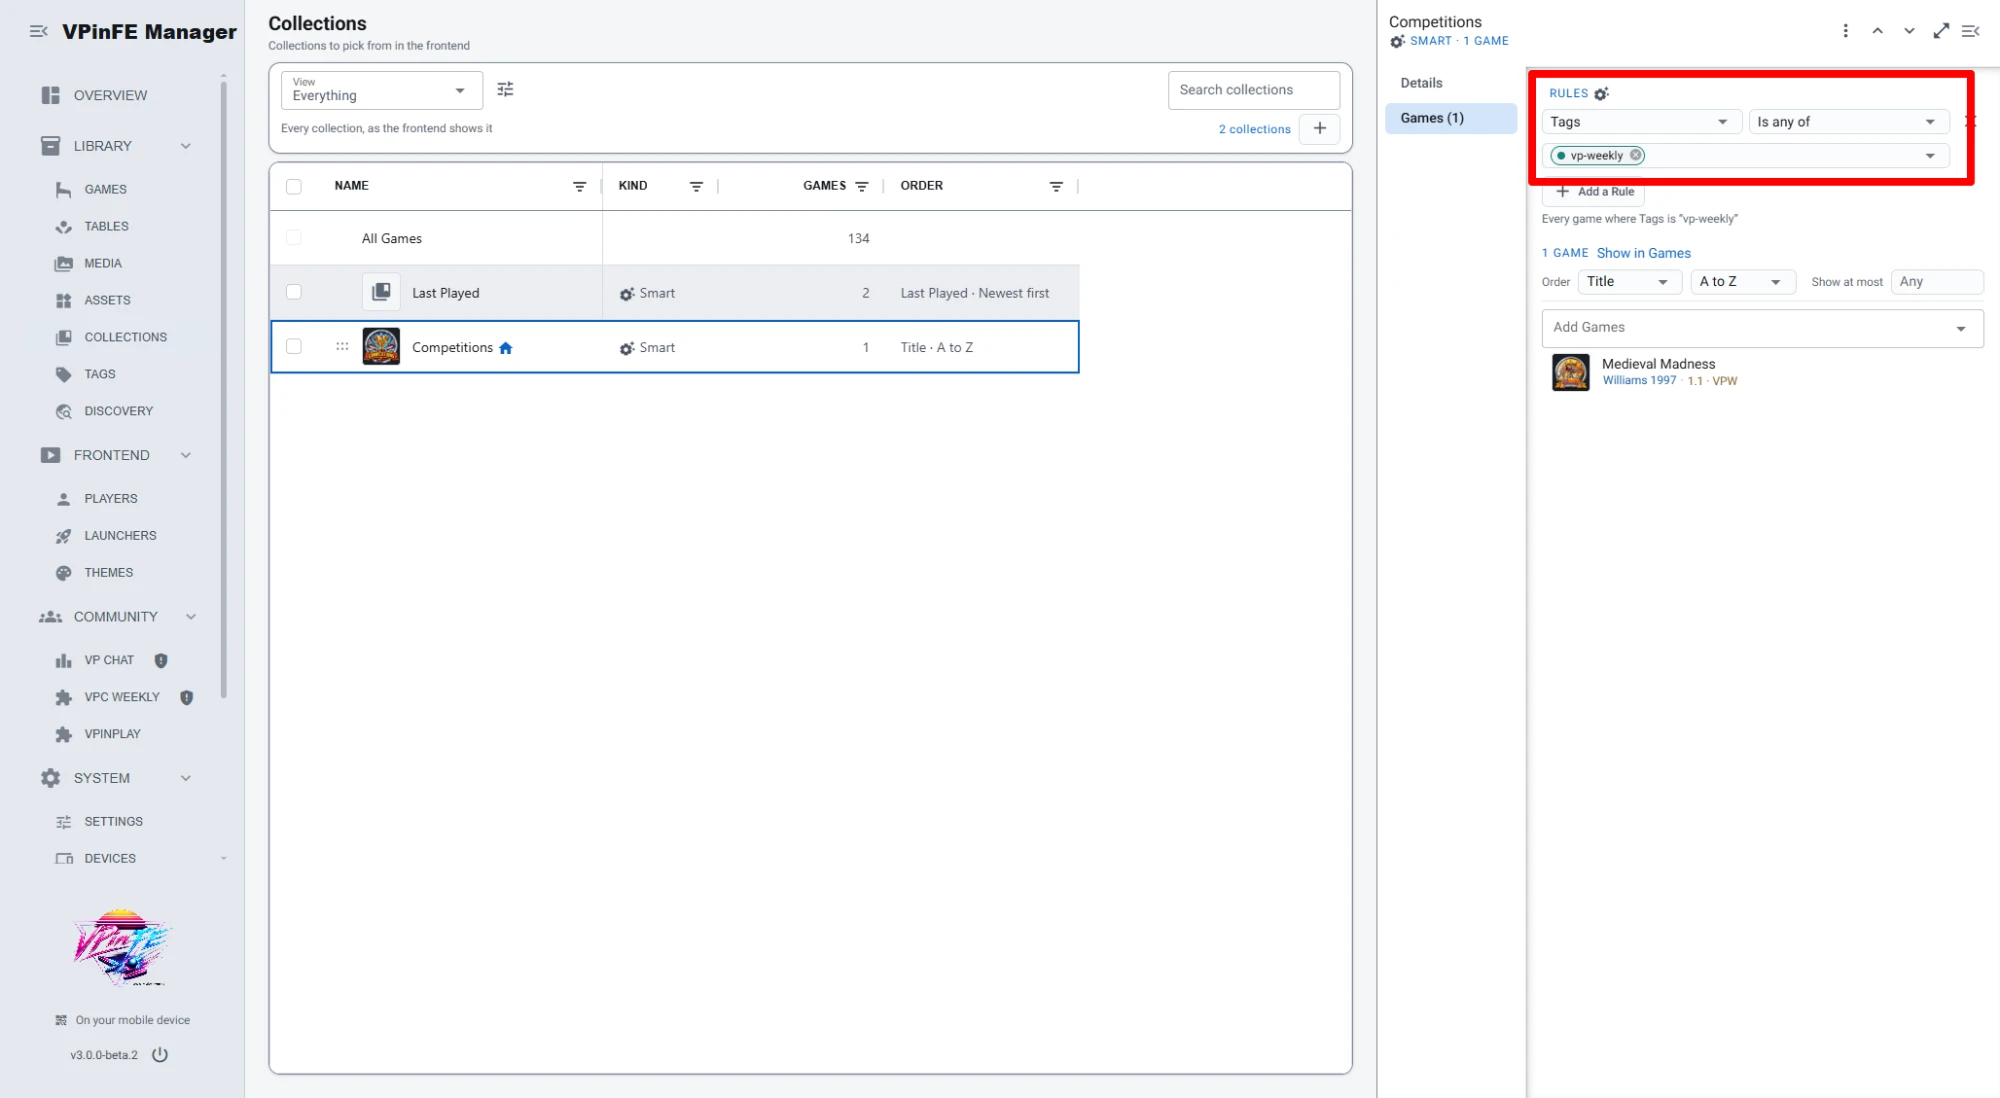
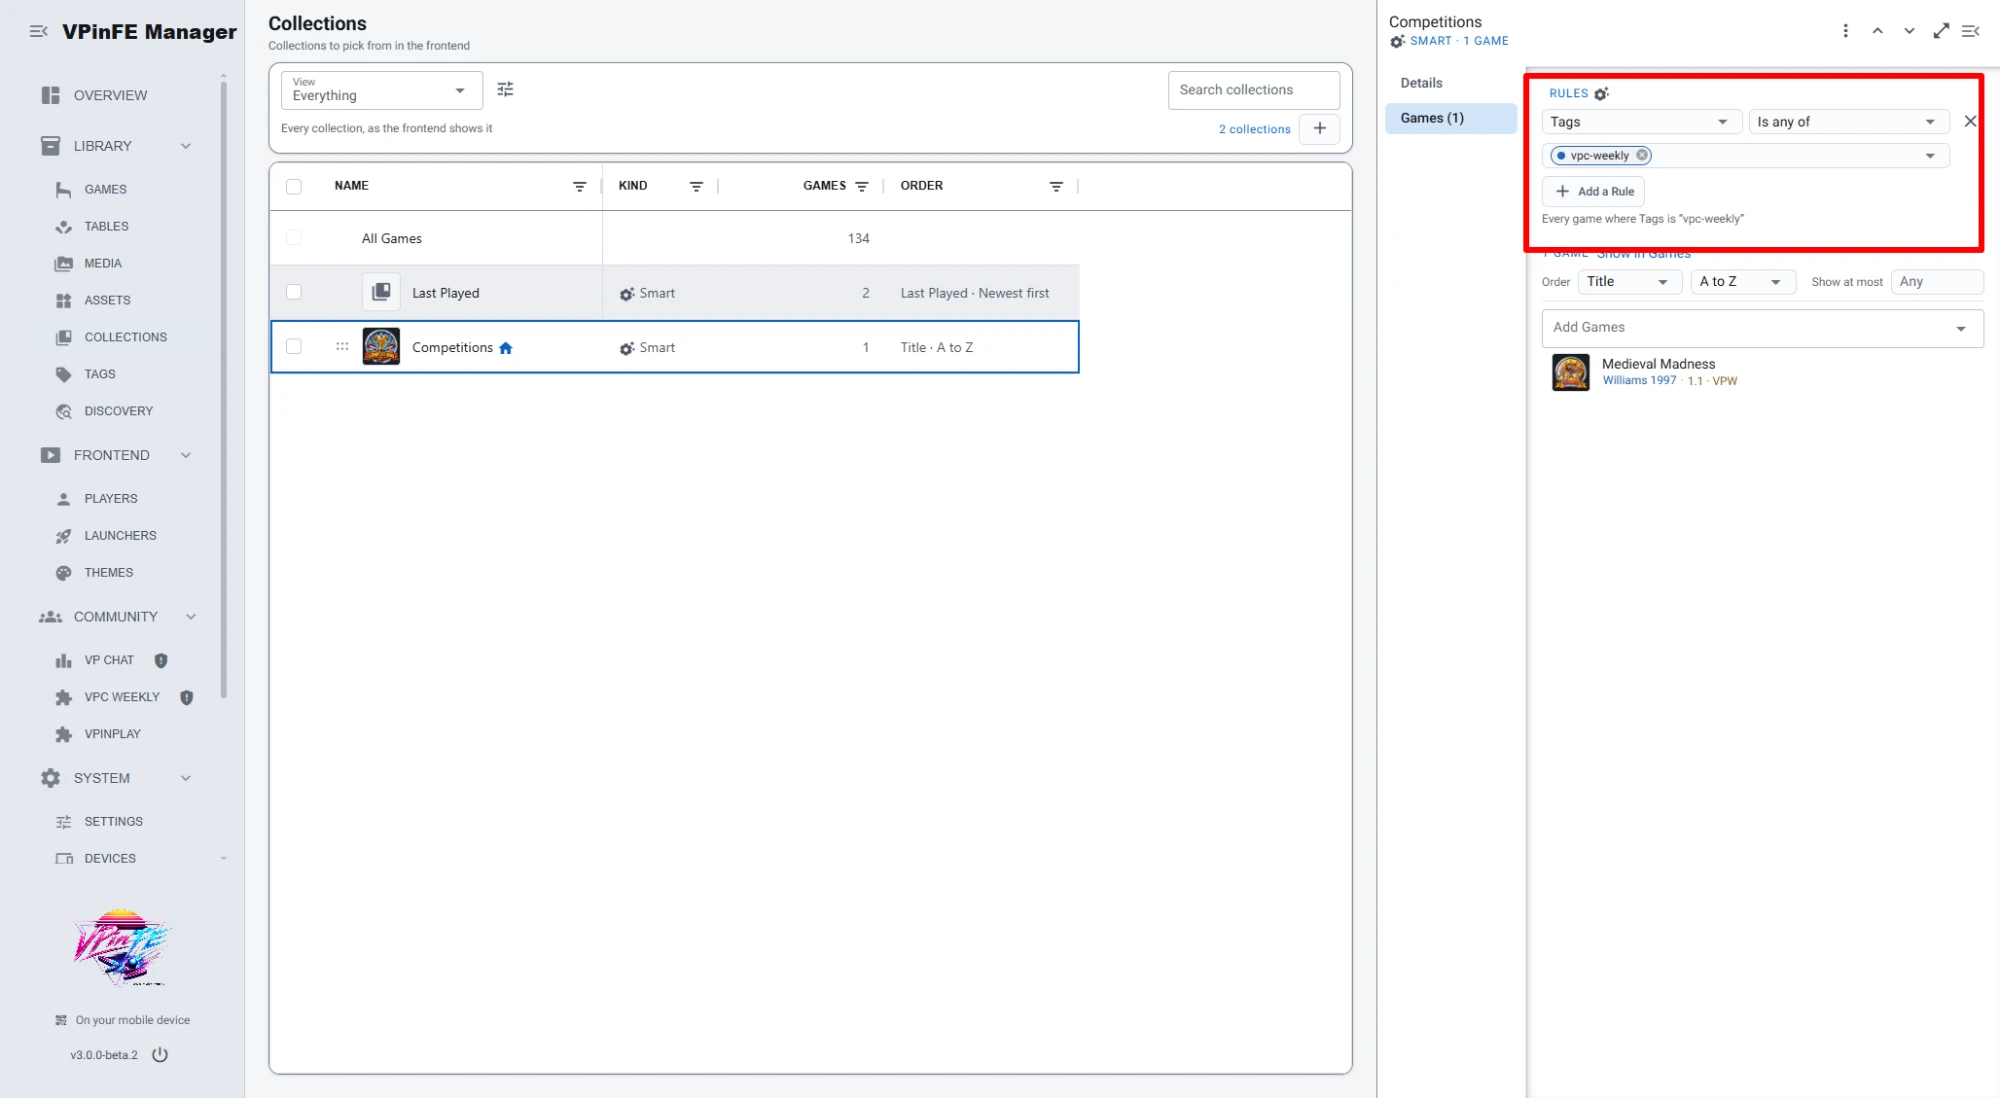
Rename the weekly tag from vp-weekly to vpc-weekly
The weekly table is now tagged vpc-weekly. Update the README and its
screenshots to match, and note that collections built on the old tag
need their rule changed.

Changed region(s): [[0.744, 0.0619, 0.992, 0.2477]]

diff --git a/community.py b/community.py
@@ -1,5 +1,5 @@
 """What the person and a theme see: the VP Chat list, the small VPC Weekly list that carries
-the ``vp-weekly`` tag, and the ``vpc`` and ``vpc_weekly`` entries.
+the ``vpc-weekly`` tag, and the ``vpc`` and ``vpc_weekly`` entries.
 
 VPinFE tags the game of every row of a tagged list, so the tag lives on its own list that
 holds only this week's game. VP Chat holds every game with scores.
@@ -16,7 +16,7 @@ from . import boards, client, settings
 
 logger = logging.getLogger("vpinfe.ext.vpc_vpinfe")
 
-TAG = "vp-weekly"
+TAG = "vpc-weekly"
 WEEKLY = "weekly"
 CHAT = "vp_chat"
 WEEKLY_ENTRY = "vpc_weekly"

diff --git a/__init__.py b/__init__.py
@@ -2,7 +2,7 @@
 
 - **VP Chat** (Community) lists the weekly table and every table in your library whose scores
   have been asked of VPC, with your own usernames flagged.
-- **VPC Weekly** (Community) holds only this week's table. Core tags that game ``vp-weekly``
+- **VPC Weekly** (Community) holds only this week's table. Core tags that game ``vpc-weekly``
   and moves the tag when the week changes, because VPinFE tags the game of every row of a
   tagged list, which is why the tag cannot live on VP Chat.
 - Scores are asked of VPC one game at a time, as they are wanted: a game browsed to, a game

diff --git a/README.md b/README.md
@@ -9,7 +9,7 @@ A [VPinFE](https://github.com/vpinfe/vpinfe) 3 extension for
 [Virtual Pinball Chat](https://virtualpinballchat.com) (VPC): the weekly competition, and the
 scores VPC holds for the tables in your library, with your own usernames flagged.
 
-**The week's table is tagged `vp-weekly` in your library**, and the tag moves when the week
+**The week's table is tagged `vpc-weekly` in your library**, and the tag moves when the week
 changes, so a Smart collection on that tag always holds this week's table. See
 [The weekly table in your collections](#the-weekly-table-in-your-collections).
 
@@ -27,7 +27,7 @@ In the Manager, two entries under **Community**:
   view. Click a row for the boards: one section per VPC version of the table, showing the top 10
   and then **your own line with the lines around it**, so a rank of 87 is visible in context.
   Your lines are marked with a star.
-- **VPC Weekly** holds only this week's table, and is what puts the `vp-weekly` tag on it (see
+- **VPC Weekly** holds only this week's table, and is what puts the `vpc-weekly` tag on it (see
   below).
 
 **Scores for your themes.** Every game a theme draws gets its VPC leaderboards as
@@ -38,24 +38,28 @@ with no setup of its own. See [For theme authors](#for-theme-authors) for the da
 
 ## The weekly table in your collections
 
-This extension tags this week's table `vp-weekly` in your library, and moves the tag to the new
+This extension tags this week's table `vpc-weekly` in your library, and moves the tag to the new
 table when the week changes. Nothing else in your library is tagged, and you do not have to do
 anything to keep it up to date.
 
 The tag shows on the game like any other tag, so the weekly table is easy to spot when browsing:
 
-![The Games view in VPinFE Manager: Medieval Madness, the week's table, carries the vp-weekly tag](docs/weekly-tag.webp)
+![The Games view in VPinFE Manager: Medieval Madness, the week's table, carries the vpc-weekly tag](docs/weekly-tag.webp)
 
 To have a collection that always holds the week's table, go to **Library > Collections**, add a
-**Smart** collection, and give it one rule: **Tags**, **Is any of**, `vp-weekly`:
+**Smart** collection, and give it one rule: **Tags**, **Is any of**, `vpc-weekly`:
 
-![A Smart collection named Competitions in VPinFE Manager, with the rule Tags is any of vp-weekly, holding Medieval Madness](docs/weekly-smart-collection.webp)
+![A Smart collection named Competitions in VPinFE Manager, with the rule Tags is any of vpc-weekly, holding Medieval Madness](docs/weekly-smart-collection.webp)
 
 The collection follows the week on its own: when the week changes, the old table drops out and
 the new one appears.
 
+> [!NOTE]
+> Earlier versions used the tag `vp-weekly`. If you set up a collection on that tag, change its
+> rule to `vpc-weekly`.
+
 The extension does this through its **VPC Weekly** list: the list is registered with the
-`vp-weekly` tag, and VPinFE tags the game of every row of a tagged list. That is why the tag sits
+`vpc-weekly` tag, and VPinFE tags the game of every row of a tagged list. That is why the tag sits
 on its own one-row list and not on VP Chat, which would tag every table in it.
 
 ## How scores are collected
@@ -113,7 +117,7 @@ On any game with held scores, `entry.ext.vpc`:
 Each version's `scores` holds the top 25 plus your own lines, each with its true `rank`. The
 version 0.1 weekly scores' `avatar`, `points` and `id` are no longer provided.
 
-The weekly game is also tagged `vp-weekly`; see
+The weekly game is also tagged `vpc-weekly`; see
 [The weekly table in your collections](#the-weekly-table-in-your-collections).
 
 ## Capabilities
